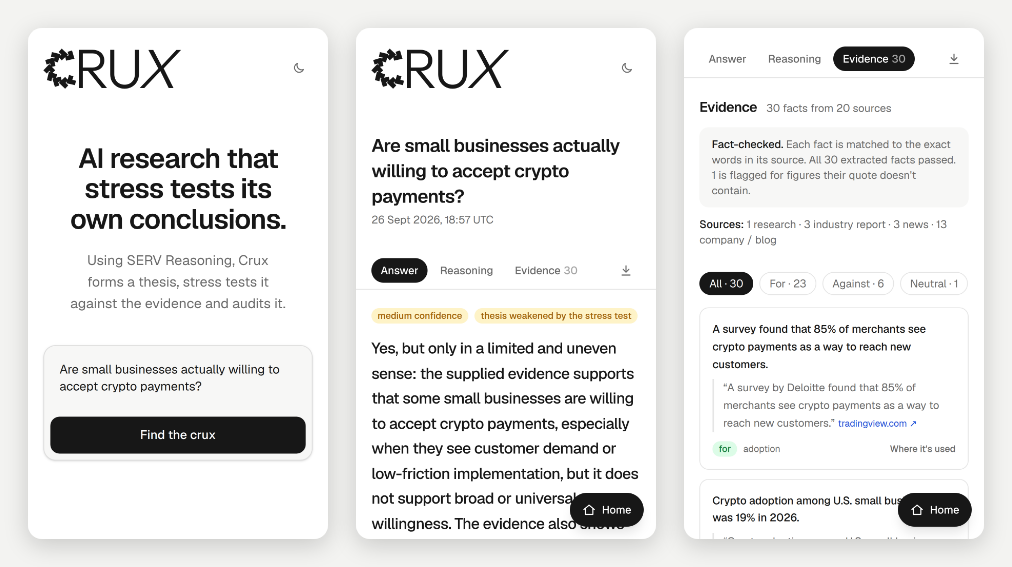
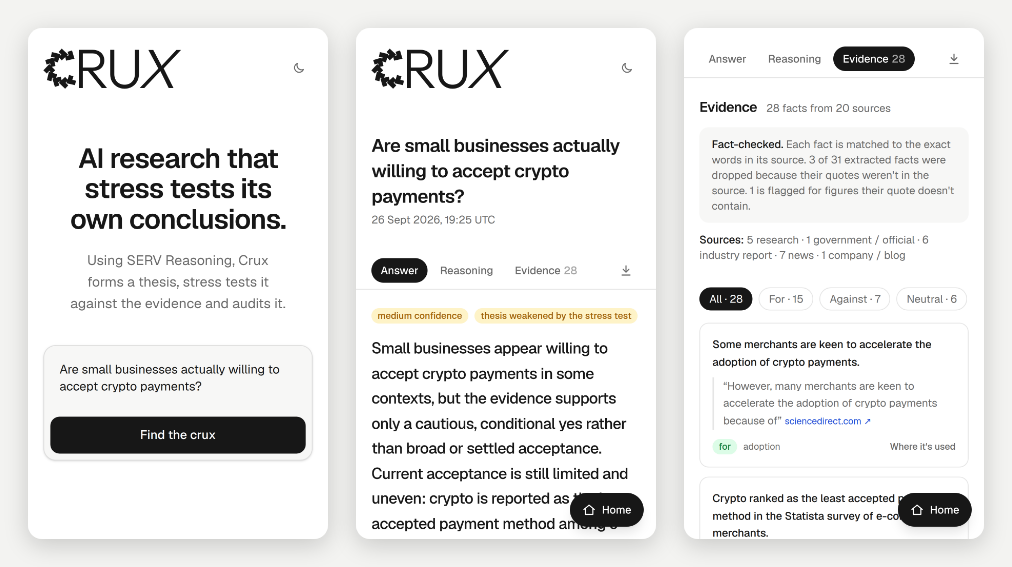
Refresh README from a live run with stronger sources; show the quote in drop warnings

diff --git a/src/lib/research/collect.ts b/src/lib/research/collect.ts
@@ -158,7 +158,7 @@ export async function collectResearch(
     for (const q of c.quotes ?? []) {
       const source = byId.get(q.source_id);
       if (!source) warnings.push(`Claim ${label} quoted unknown source ${q.source_id}; removed it.`);
-      else if (!quoteFound(q.text, source.excerpt)) warnings.push(`Claim ${label}: its quote isn't in ${q.source_id}'s text; removed that source.`);
+      else if (!quoteFound(q.text, source.excerpt)) warnings.push(`Claim ${label}: its quote isn't in ${q.source_id}'s text; removed that source. Quote: "${q.text.slice(0, 200)}"`);
       else if (!quotes.some((v) => v.source_id === q.source_id && v.text === q.text)) quotes.push({ source_id: q.source_id, text: q.text });
     }
     if (quotes.length === 0) {

diff --git a/README.md b/README.md
@@ -20,14 +20,14 @@ Every number below is from a real run of the demo question on 26 September 2026,
 
    | Stage | What happens | Time |
    | --- | --- | --- |
-   | Research | SERV plans 8 searches (half of them hunting for evidence against), Tavily runs them, 20 sources are picked, SERV extracts facts and Crux checks every quote | 30.5 s |
-   | Thesis | SERV commits to a first answer and names the assumptions it rests on | 7.7 s |
-   | Stress test | SERV challenges the thesis: weak assumptions, contradicting evidence, other explanations, risks, missing evidence | 10.6 s |
-   | Re-evaluate | Every assumption is re-judged against the evidence and the challenges | 11.0 s |
-   | Conclusion | The best-supported answer, its confidence, what's uncertain and what to check next | 7.2 s |
+   | Research | SERV plans 8 searches (half of them hunting for evidence against), Tavily runs them plus 4 repeats on research and official sites, 20 sources are picked, SERV extracts facts and Crux checks every quote | 30.1 s |
+   | Thesis | SERV commits to a first answer and names the assumptions it rests on | 4.6 s |
+   | Stress test | SERV challenges the thesis: weak assumptions, contradicting evidence, other explanations, risks, missing evidence | 6.8 s |
+   | Re-evaluate | Every assumption is re-judged against the evidence and the challenges | 9.2 s |
+   | Conclusion | The best-supported answer, its confidence, what's uncertain and what to check next | 6.9 s |
    | What changed | Assembled from the recorded stages, no model call | 0 s |
 
-   About a minute in total, 6 SERV calls and 8 Tavily searches.
+   About a minute in total, 6 SERV calls and 12 Tavily searches.
 4. Read the **Answer**, then open **Reasoning** and **Evidence**. Anything backed by facts has an **Evidence** link that opens just those facts.
 5. Choose **Download** for the report as a PDF.
 
@@ -49,23 +49,23 @@ The first answer next to the answer after the stress test, and every material ch
 
 ![What changed: the first answer, the final answer, and why it moved](docs/screenshots/what-changed.png)
 
-In the demo run, the thesis was **weakened**: three changes, each backed by specific facts and challenges, turned "many merchants are willing, with conditions" into "some are, but not broadly, and stated willingness is not proof of adoption".
+In the demo run, the thesis was **weakened**: four changes, each backed by specific facts and challenges, turned "willing in principle, but acceptance lags" into "only a cautious, conditional yes: acceptance is low, and much of the evidence is about merchants in general rather than small businesses".
 
 ### Stress test
 
-SERV acts as a skeptical investor and challenges the first answer. Each challenge has a severity and a type, names the assumptions it targets, and links to its evidence. The demo run raised 7 challenges, 1 of them critical.
+SERV acts as a skeptical investor and challenges the first answer. Each challenge has a severity and a type, names the assumptions it targets, and links to its evidence. The demo run raised 6 challenges, 1 of them critical.
 
 ![The stress test](docs/screenshots/stress-test.png)
 
 ### Assumptions, re-judged
 
-Every assumption the thesis depends on gets a verdict: supported, weakened, contradicted or unresolved, with the reasoning. If the re-evaluation skips one, Crux marks it unresolved rather than letting it pass silently. In the demo run: 2 weakened, 2 supported.
+Every assumption the thesis depends on gets a verdict: supported, weakened, contradicted or unresolved, with the reasoning. If the re-evaluation skips one, Crux marks it unresolved rather than letting it pass silently. In the demo run: 3 weakened, 2 supported.
 
 ![Assumptions with their verdicts](docs/screenshots/assumptions.png)
 
 ### Evidence, fact-checked
 
-Every fact shows the exact words it came from, with a link to the source. The summary at the top says how many extracted facts were dropped because their quote wasn't in the source, and sources are labelled by type. The demo run kept all 30 facts it extracted (23 for, 6 against, 1 neutral) from 20 sources, and flagged 1 whose year wasn't in its quote.
+Every fact shows the exact words it came from, with a link to the source. The summary at the top says how many extracted facts were dropped because their quote wasn't in the source, and sources are labelled by type. The demo run kept 28 of the 31 facts it extracted (15 for, 7 against, 6 neutral) from 20 sources: 5 research, 1 official, 6 industry reports, 7 news and 1 company site. It flagged 1 fact whose sample size wasn't in its quote.
 
 ![The Evidence view](docs/screenshots/evidence.png)
 
@@ -99,7 +99,7 @@ Every reasoning step is a separate SERV Reasoning call (OpenAI-compatible chat c
 
 | Call | Input | Output |
 | --- | --- | --- |
-| Query plan | The question | 2 to 4 supporting and 3 to 4 challenging searches (the schema requires both) |
+| Query plan | The question | 2 to 4 supporting and 3 to 4 challenging searches (the schema requires both), aimed at original data |
 | Claims | The question and up to 20 source excerpts | Facts, each with the exact quote from its source, a category and a stance; plus each source's publisher type |
 | Thesis | The checked facts | A first answer, its confidence and why, the assumptions it depends on, the facts behind it |
 | Stress test | Facts and thesis | Challenges with type, severity, target assumptions and evidence; failure conditions; missing evidence |
@@ -148,6 +148,7 @@ A research tool is only useful if you can trust what it shows, so the rules belo
 | Figures must match | A figure a fact states (in digits) must appear in one of its quotes, as digits or words ("thirty-three" matches 33). If not, the fact is kept, flagged in the report, and passed to the later stages as unverified |
 | The case against is always searched for | The query-plan schema requires 3 to 4 challenging searches. They run interleaved with the supporting ones, and sources are picked search by search in turn, so a supporting search's higher relevance scores can't crowd them out |
 | A missing case against is called a gap, not proof | If no evidence against the answer survives, the later stages are told so explicitly, and the Evidence view says so |
+| Original data comes first | The search plan aims at surveys, studies, official statistics and research firms. The first 4 searches run again limited to about 120 research, official and industry-report sites. Within each search, those sources are picked before news, and news before company sites and blogs |
 | Weak sources count for less | Social posts and sources over three years old are flagged, only fill source slots the others leave open, and facts resting only on them are marked as weak evidence for the later stages and in the report |
 | Citations can't dangle | Every ID a stage cites is checked against the records that exist. Unknown ones are removed and logged, so every audit-trail link leads somewhere |
 | No assumption is skipped | The re-evaluation must judge every assumption; any it leaves out is recorded as unresolved |
@@ -158,9 +159,9 @@ Two limits to be plain about: a fact's **stance** (for or against) and the **typ
 
 ## What was checked
 
-- **Live runs with SERV and Tavily.** Four live runs of the crypto question on 26 September 2026. From the second run on, after the balanced-research change, evidence went from 24 for and 0 against to a real case against (9 against in the third run, 6 in the fourth), and source types from "20 company / blog" to a mix of research, industry, news and company sources.
-- **The screenshots** are from the fourth run, made after the last round of fixes and shown exactly as it came back. All 30 extracted facts passed the quote check; 1 is flagged because it says "in 2026" while its quote doesn't give a year.
-- **Unit tests** (`npm test`, 66 tests): quote verification, figures in digits and words, source labels and selection, balanced queries, ID and dash stripping (only this run's IDs, ranges and abbreviations handled), prompt-guard retries, and the full pipeline end to end.
+- **Live runs with SERV and Tavily.** Five live runs of the crypto question on 26 September 2026. The balanced-research change took the evidence from 24 for and 0 against to a real case against (6 to 9 facts against in each later run). The stronger-sources change took the source mix from 13 company or blog sites out of 20 to 1, with research, official statistics and industry reports making up 12.
+- **The screenshots** are from the fifth run, shown exactly as it came back. 3 of the 31 extracted facts were dropped because their quotes weren't in the source text (one rested on a Statista page whose figures sit behind a paywall), and 1 is flagged because it states a sample size its quote doesn't contain.
+- **Unit tests** (`npm test`, 68 tests): quote verification, figures in digits and words, source labels and selection (stronger sources first), balanced queries, ID and dash stripping (only this run's IDs, ranges and abbreviations handled), prompt-guard retries, and the full pipeline end to end.
 - **The UI in a real browser** (headless Chromium): every view at 320, 360, 390 and 1200 px, light and dark, no sideways scrolling, PDF downloads, the demo question by arrow key and by tap.
 - **Type check, lint and production build** are clean (`npm run typecheck`, `npm run lint`, `npm run build`).
 
@@ -176,7 +177,7 @@ cp .env.example .env.local   # then add SERV_API_KEY and TAVILY_API_KEY
 npm run dev                  # open http://localhost:3000
 ```
 
-Each question uses about 6 SERV calls and 8 Tavily searches and takes around a minute.
+Each question uses about 6 SERV calls and 12 Tavily searches and takes around a minute.
 
 **On a phone:** keep the app running, connect the phone to the same Wi-Fi, and open the **Network** address that `npm run dev` prints (for example `http://192.168.0.3:3000`).
 
